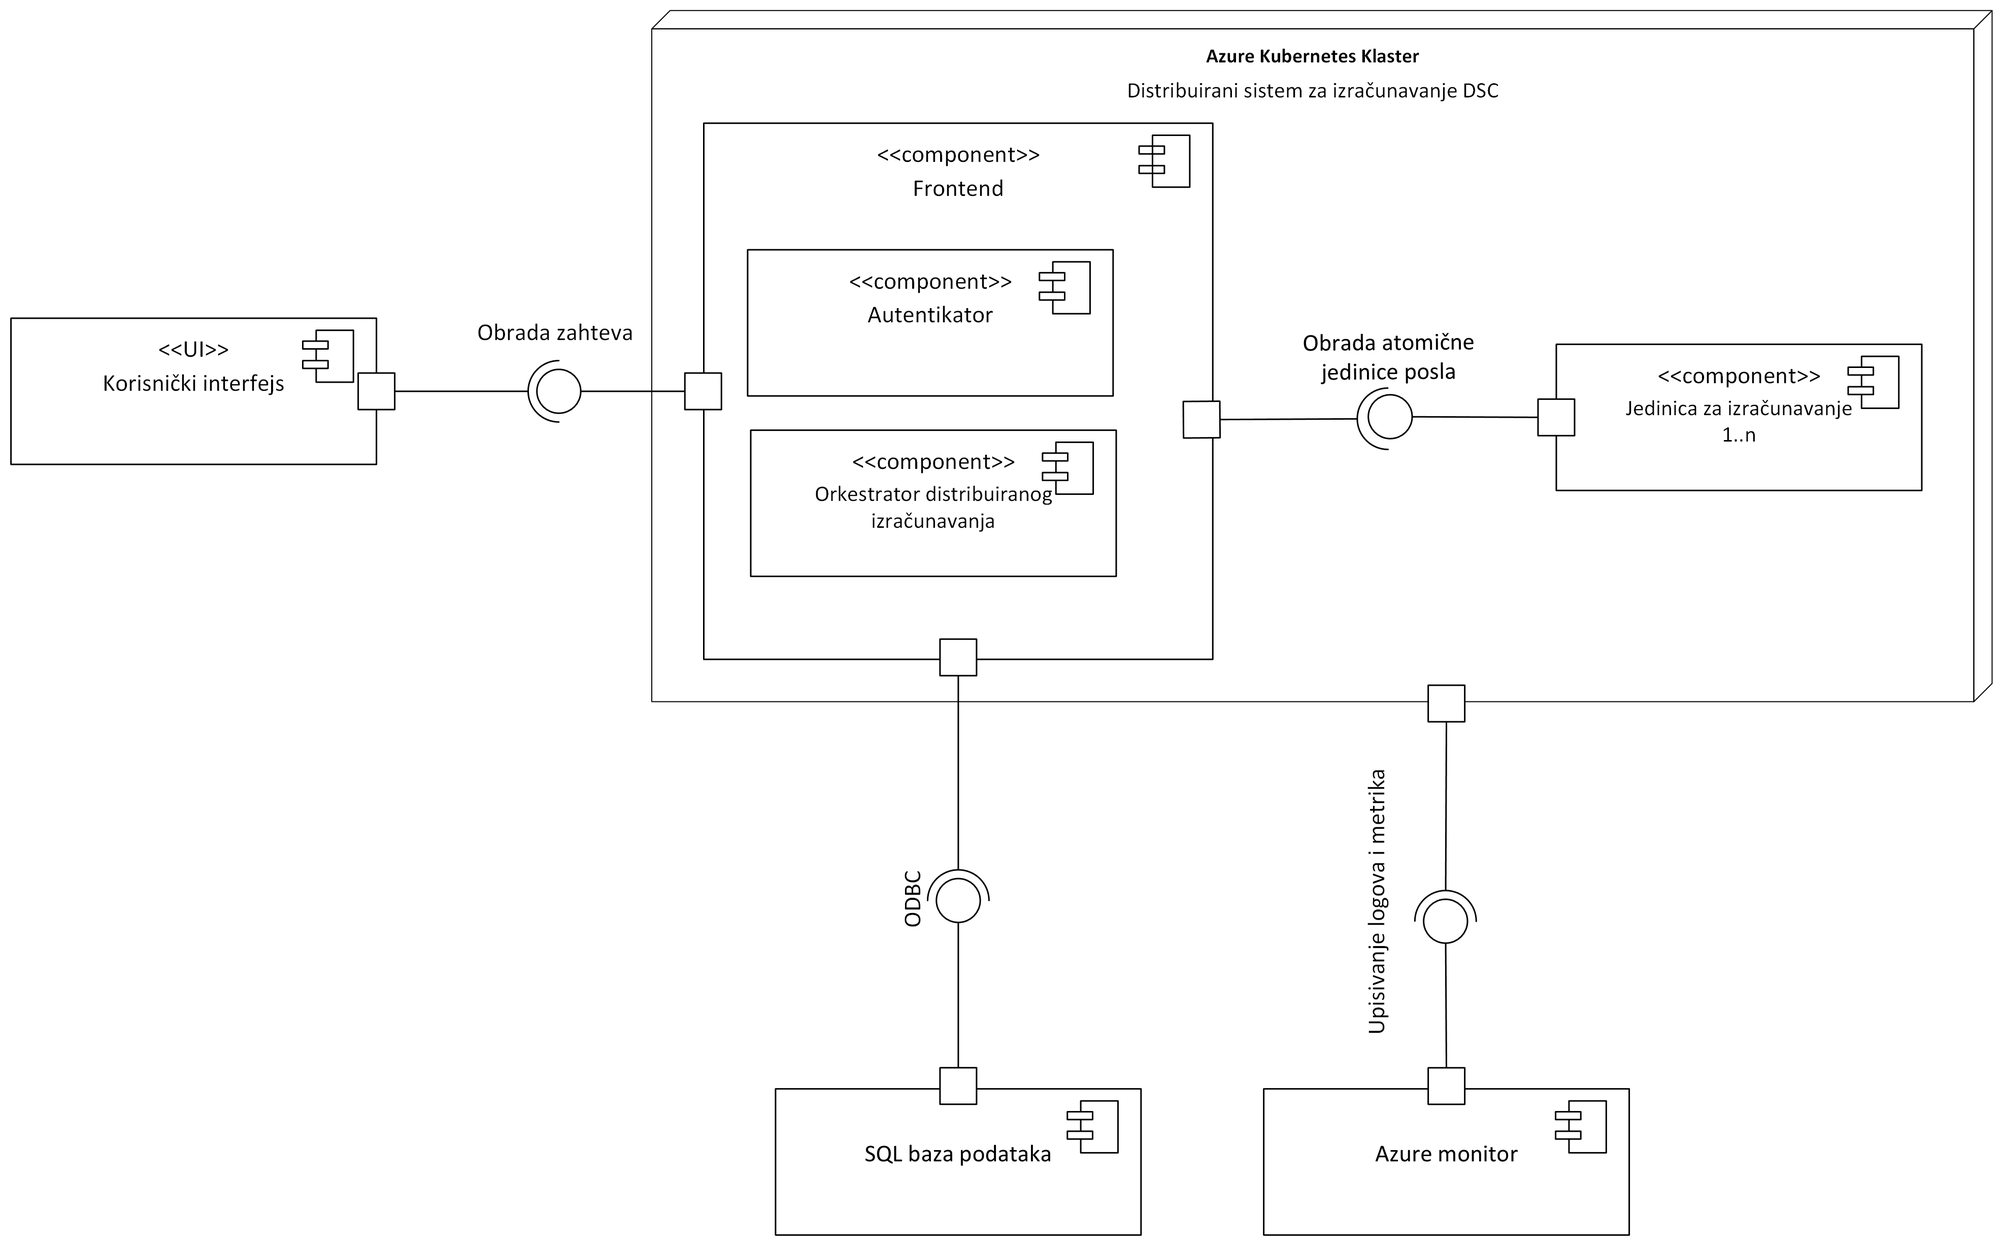
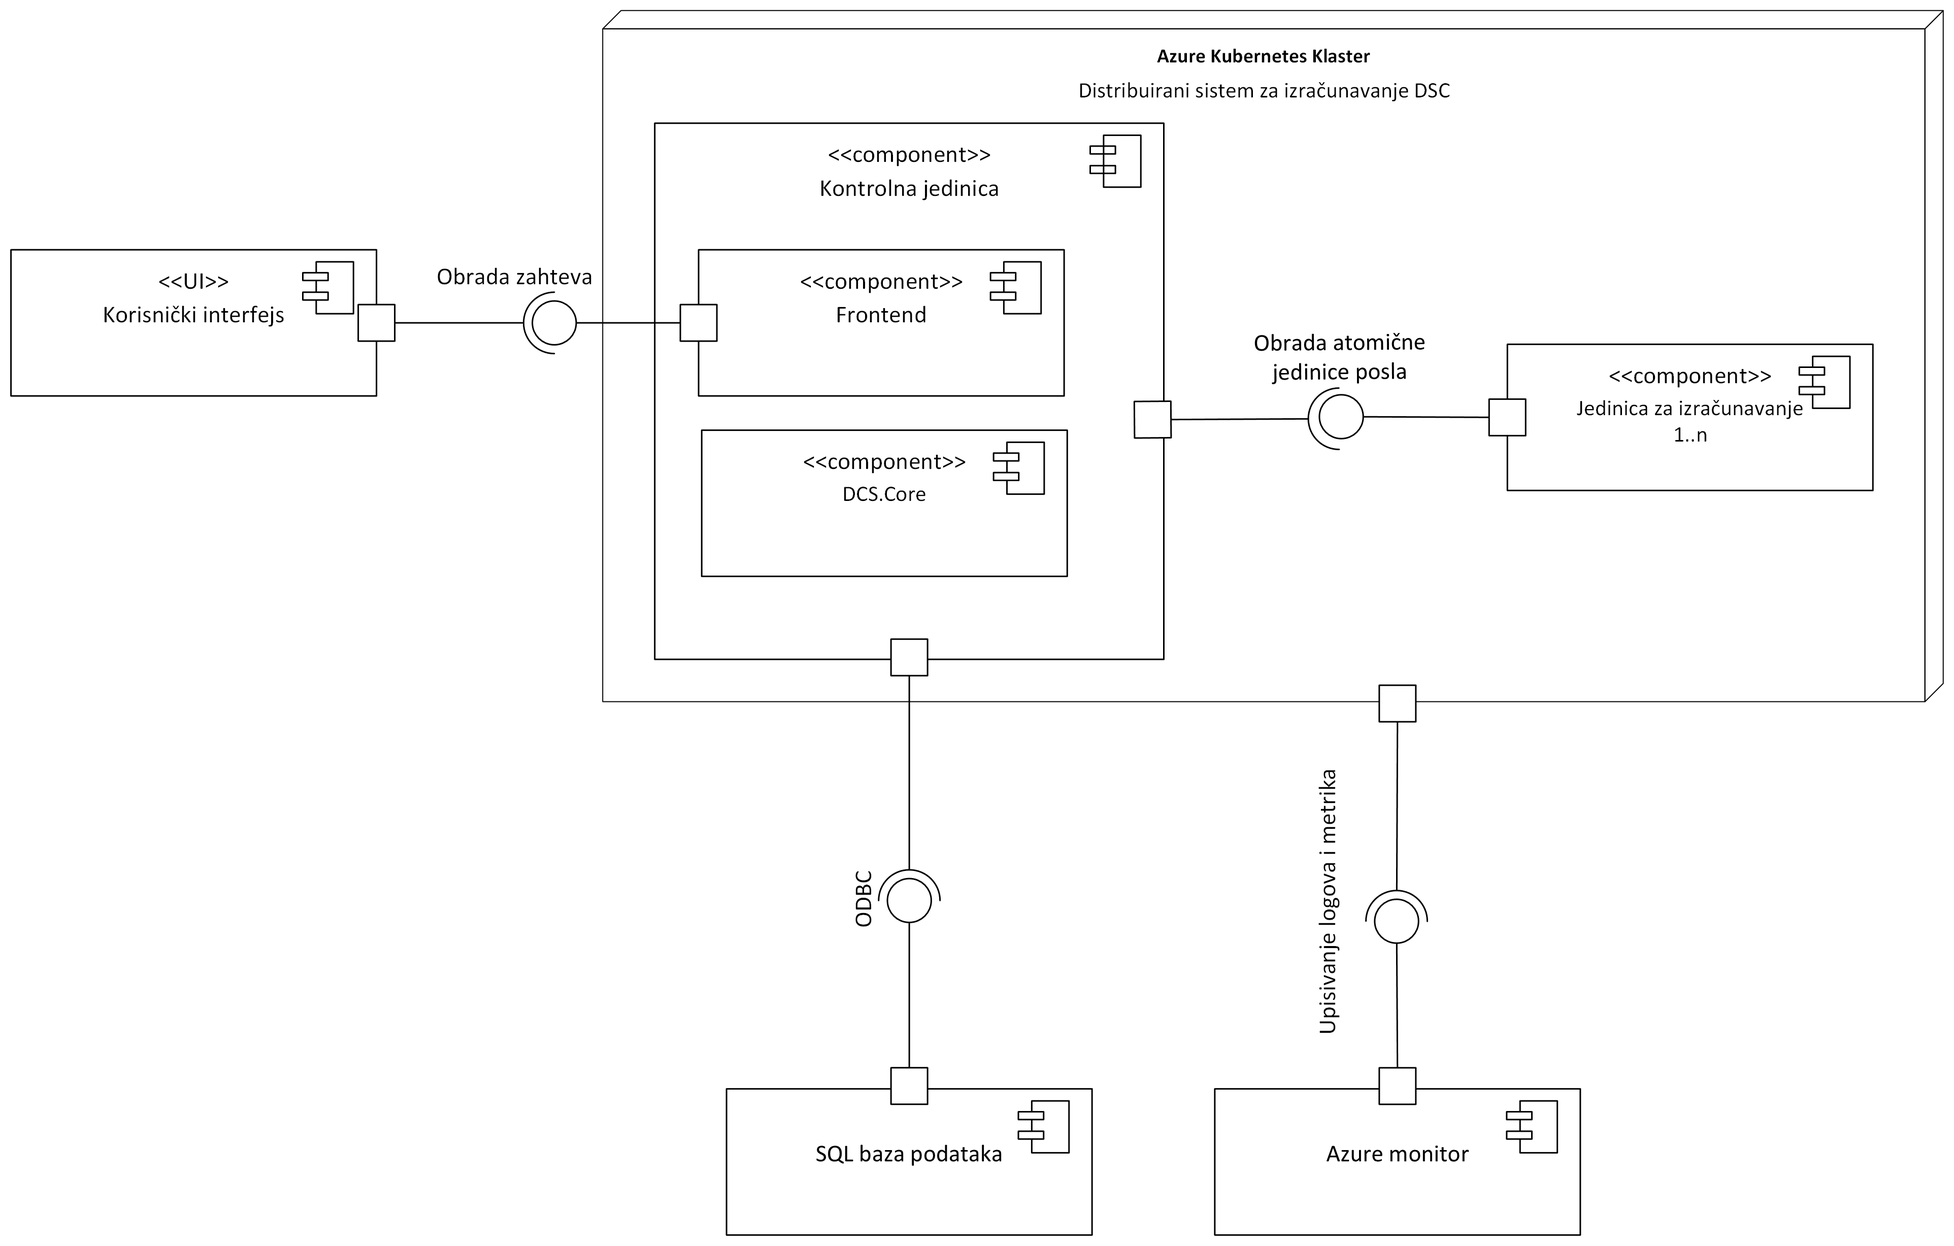
Unapredjen deo rada koji opisuje implementaciju

diff --git a/paper/MasterRad-MilanaKovačević.tex b/paper/MasterRad-MilanaKovačević.tex
@@ -106,7 +106,6 @@ Azure Functions pregled
 
 neko rešenje u AWS?
 
-
 \section{Opis korišćenih tehnologija i alata}
 
 U ovom podpoglavlju biće opisane tehnologije i alati korišćenih prilikom programske realizacije sistema.
@@ -229,11 +228,11 @@ Najrelevantniji resursi korišćeni za pokretanje sistema u na \emph{Azure} plat
 
 \subsubsection{Swagger / OpenAPI}
 
-\emph{OpenAPI} \cite{OpenAPI} je specifikacija \emph{REST API}-a koja ne zavisi od programskog jezika. \emph{Swagger} \cite{Swagger} predstavlja skup alata koji koriste \emph{OpenAPI} specifikaciju.
+\emph{OpenAPI} \cite{OpenAPI} je specifikacija \emph{REST API}-a (eng. \emph{Application Programming Interface}) koja ne zavisi od programskog jezika. \emph{Swagger} \cite{Swagger} predstavlja skup alata koji koriste \emph{OpenAPI} specifikaciju.
 
-Servisi kreirani u okviru sistema imaju otvoreni web \emph{REST API}. Korišćenjem skupa alata \emph{Swagger}, oni su dokumentovani u standardizovanom formatu, u \emph{json} datoteci. Za generisanje ove specifikacije za \emph{.NET Core} aplikacije koristi se alat \emph{Swashbuckle} \cite{Swashbuckle}.
+Korišćenjem skupa alata \emph{Swagger}, moguće je dokumentovati serverski web \emph{REST API} u standardizovanom formatu, u datoteci \emph{json}. Za pravljenje ove specifikacije, koristi se alat \emph{Swashbuckle} \cite{Swashbuckle}.
 
-Sa klijentske strane, koristi se alat \emph{NSwag} \cite{NSwag}. Na osnovu prethodno generisane \emph{json} datoteke, on tokom kompilacije generiše klasu koja sadriži \emph{HTTP} klijenta i potrebnu dokumentaciju. Ovo je praktičan i efikasan način da se automatski generiše kod klijenta pomoću kojeg se šalju zahtevi serveru.
+Za generisanje klijenta u rednom okviru \emph{.NET Core}, koristi se alat \emph{NSwag} \cite{NSwag}. Na osnovu prethodno generisane \emph{json} datoteke, on generiše klasu koja sadriži \emph{HTTP} klijenta i potrebnu dokumentaciju. Ovo je praktičan i efikasan način da se automatski generiše kod klijenta pomoću kojeg se šalju zahtevi serveru.
 
 
 
@@ -472,9 +471,9 @@ Slučajevi upotrebe iz ugla administratora klastera su prikazani na slici \ref{f
 
 Sistem DCS je implementiran po uzoru na arhitekturu klijent-server.
 
-Centralni deo sistema DCS se sastoji od dva tipa aplikacija: Frontenda (skr. FE) i jedinice za izvršavanje (eng. \emph{Compute Node}, skr. CN). 
-U sistemu postoji tačno jedna aplikacija FE, koja je zadužena za dve logički odvojene celine: primanje zahteva od korisnika i orkestriranje izvršavanja prethodno zakazanih poslova.
-Sa druge strane, u zavisnosti od potreba, DCS se sastoji od jedne ili više aplikacija CN koje su zadužene za izvršavanje atomičnih (nedeljivih) poslova. CN prima zahteve za izvršavanje atomičnih poslova od FE.
+Centralni deo sistema DCS se sastoji od dva tipa aplikacija: Kontrolne jedinice (eng. \emph{Control Node}, skr. CtrlN) i jedinice za izračunavanje (eng. \emph{Compute Node}, skr. CmpN). 
+U sistemu postoji tačno jedna aplikacija kontrolne jedinice, koja je zadužena za dve logički odvojene celine: primanje zahteva od korisnika i orkestriranje izvršavanja prethodno zakazanih poslova.
+Sa druge strane, u zavisnosti od potreba, DCS se sastoji od jedne ili više jedinica za izračunavanje koje su zadužene za izvršavanje atomičnih (nedeljivih) poslova. CmpN prima zahteve za izvršavanje atomičnih poslova od CtrlN.
 
 Arhitektura sistema je prikazana na slici \ref{fig:arhitektura}.
 
@@ -485,31 +484,35 @@ Arhitektura sistema je prikazana na slici \ref{fig:arhitektura}.
   \label{fig:arhitektura}
 \end{figure}
 
-Arhutekturalni obrazac korišćen prilikom razvoja sistema je u Prezentacija-Apstrakcija-Kontrola (eng. \emph{Presentation-Abstraction-Control}, skr. PAC). Sistem je hijerarhijski podeljen na agente FE i CN. FE je agent višeg novoa, koji je pozvezan sa CN agentima. Ovakvom arhitekturom se uvodi podela odgovornosti različitih delova servisa.
+Arhutekturalni obrazac korišćen prilikom razvoja sistema je u Prezentacija-Apstrakcija-Kontrola (eng. \emph{Presentation-Abstraction-Control}, skr. PAC). Sistem je hijerarhijski podeljen na agente CtrlN i CmpN. CtrlN je agent višeg novoa, koji je pozvezan sa CmpN agentima. Ovakvom arhitekturom se uvodi podela odgovornosti različitih delova servisa.
 
-PAC je slojevita arhitektura, te svaki od agenata FE i CN ima PAC slojeve. Prvi sloj aplikacija je \emph{prezenter} koji predstavlja REST API (eng. \emph{Application Programming Interface}). Ovaj sloj aplikacije je okrenut ka spolja i definiše interfejs za komunikaciju sa servisom. U slučaju FE je to API preko kog prima korisnikove zahteve, a u slučaju CN je to API preko kog prima zahteve od FE. Drugi sloj aplikacija je \emph{kontroler} koji predstavlja centralni agenta gde je glavnom logika. Treći sloj aplikacija je \emph{apstrakcija} i predstavlja model podataka i interfejs prema bazi podataka. U inicijalnoj verziji servisa, samo FE ima direktnu komunikaciju sa bazom.
+PAC je slojevita arhitektura, te svaki od agenata CtrlN i CmpN ima PAC slojeve. Prvi sloj aplikacija je \emph{prezenter} koji predstavlja REST API. Ovaj sloj aplikacije je okrenut ka spolja i definiše interfejs za komunikaciju sa servisom. U slučaju CtrlN je to API preko kog prima korisnikove zahteve, a u slučaju CmpN je to API preko kog prima on zahteve od CtrlN. Drugi sloj aplikacija je \emph{kontroler} koji predstavlja centralni deo agenta gde je glavna logika. Treći sloj aplikacija je \emph{apstrakcija} i predstavlja model podataka i interfejs prema bazi podataka. 
 
 
 % ------------------------------------------------------------------------------
 \section{Implementacija}
 % ------------------------------------------------------------------------------
 
-Sistem DCS je javno dostupan na servisu GitHub na adresi \href{https://github.com/milana-kovacevic/DistributedComputationSystem}{https://github.com/milana-kovacevic/Distributed}\label{githubdsc}. Za implementaciju je korišćen programski jezik C\#, i radni okvir \emph{.NET Core 6.0}. Korišćeno je razvojno okruženje \emph{Microsoft Visual Studio Community 2022} i operativni sistem \emph{Windows 10}.
+Sistem DCS je javno dostupan na servisu GitHub na adresi \href{https://github.com/milana-kovacevic/DistributedComputationSystem}{https://github.com/milana-kovacevic/DistributedComputationSystem}\label{githubdsc}. Za implementaciju je korišćen programski jezik C\#, i radni okvir \emph{.NET Core 6.0}. Korišćeno je razvojno okruženje \emph{Microsoft Visual Studio Community 2022} i operativni sistem \emph{Windows 10}.
 
-Glavna logika distribuiranog izvršavanja nalazi se u okviru aplikacije Frontend. Jedinice za izvršavanje su jednostavni servisi koji imaju jasan cilj koji podrazumeva izvršavanje atomičnog posla i vraćanje rezultata izvršavanja. U nastavku, razrađuje se implementacija FE komponente (ukoliko nije naglašeno drugačije).
+Glavna logika distribuiranog izvršavanja nalazi se u okviru kontrolne jedinice. Jedinice za izvršavanje su jednostavni servisi koji imaju jasan cilj koji podrazumeva izvršavanje atomičnog posla i vraćanje rezultata izvršavanja. U nastavku, razrađuje se implementacija CtrlN komponente (ukoliko nije naglašeno drugačije).
 
-Detaljnija zaduženja FE komponente su, redom:
+Kontrolna jedinica se sastoji od dve komponente koje se nazivaju: Frontend (skr. FE) i Distribuirani orkestrator (skr. DO). Detaljnije, zaduženja CtrlN su, redom:
 \begin{enumerate}
-\item Autentifikacija klijenta,
-\item Primanje i validacija zahteva,
-\item \label{podela_planiranje}Podela zahteva na potposlove i pravljenje plana izvršavanja,
-\item \label{orkestriranje}Orkestiranje izvršavanja potposlova i agregacija (pod)rezultata,
-\item \label{cuvanje_u_bazi}Čuvanje rezultata u bazi (ili nekom drugom skladištu).
+\item Frontend
+	\begin{enumerate}
+	\item Autentifikacija klijenta,
+	\item Primanje i validacija zahteva,
+	\end{enumerate}
+\item Distribuirani orkestrator
+	\begin{enumerate}
+	\item \label{podela_planiranje}Podela zahteva na potposlove i pravljenje plana izvršavanja,
+	\item \label{orkestriranje}Orkestiranje izvršavanja potposlova i agregacija podrezultata,
+	\item \label{cuvanje_u_bazi}Čuvanje rezultata u bazi ili nekom drugom skladištu.
+	\end{enumerate}
 \end{enumerate}
 
-Kada je FE primio i evidentirao zahtev za izvršavanje posla, on ubacuje posao u red za izvršavanje. U slučaju da je sistem zauzet obradom drugih poslova, novi zahtev će čekati dok sistem ne postane spreman da ga obradi. Posebna nit aplikacije uzima poslove iz reda i šalje ih jednog po jednog na dalju obradu komponenti koja se naziva Distriburiani orkestrator (skr. DO). Za implementaciju reda za čekanje, korišćeno je postojeće rešenje bezbedno pri radu sa nitima \emph{BlockingCollection} \cite{BlockingCollection}.
-
-Moguća stanja kroz koja prolazi posao su prikazana na slici \ref{fig:stanjaposla}.
+Moguća stanja kroz koja prolazi posao su prikazana na slici \ref{fig:stanjaposla} a u nastavku je objašnjen način njegove obrade.
 
 \begin{figure}[!ht]
   \centering
@@ -518,27 +521,27 @@ Moguća stanja kroz koja prolazi posao su prikazana na slici \ref{fig:stanjaposl
   \label{fig:stanjaposla}
 \end{figure}
 
-Navedena zaduženja \ref{podela_planiranje} i \ref{orkestriranje} uključuju glavni deo logike distribuiranog izvršavanja. U slučaju da korisnikov zahtev već sadrži niz atomičnih poslova, podelu početnog zahteva nije potrebno raditi. Plan izvršavanja zavisi od tipa posla, a u slučaju \emph{map-reduce} funkcionalnosti porazumeva da je svaki atomični posao nezavisno obrađuje (funkcijom \emph{map}), a krajnje rešenje se dobija definisanom agregacijom atomičnih rezultata (funkcijom \emph{reduce}). 
+Kada je FE primio i evidentirao zahtev za izvršavanje posla, on ubacuje posao u red za izvršavanje. U slučaju da je sistem zauzet obradom drugih poslova, novi zahtev će čekati dok sistem ne postane spreman da ga obradi. Za implementaciju reda za čekanje, korišćeno je postojeće rešenje bezbedno pri radu sa nitima \emph{BlockingCollection} \cite{BlockingCollection}. Posebna nit aplikacije uzima poslove iz reda i šalje ih jednog po jednog na dalju obradu komponenti DO.
 
-Na osnovu plana izvršavanja, komponenta DO sprovodi dalje izvršavanje posla: šalje atomične poslove preko mreže do izabranih CN na izvršavanje. Zakazivanje atomičnih poslova se dešava asinhrono i ono ne blokira DO da obrađuje naredni posao. Dobijeni rezultati se šalju odvojenoj komponenti koja zna da agregara rezultate na osnovu plana izvršavanja. U zavisnosti od kompleksnosti agregacije, i ona bi mogla da se prosledi CN na izračunavanje.
+Navedena zaduženja \ref{podela_planiranje} i \ref{orkestriranje} uključuju glavni deo logike distribuiranog izvršavanja. Pre nego što se počne sa izvršavanjem, neophodno je podeliti posao na potposlove i definisati njihove zavisnosti. Rezultat ovoga je predstavljen u vidu stabla u kojem listovi predstavljaju početne atomične poslove, unutrašnji čvorovi agregacije podrezultata, a grane prenos međurezultata. Koren predstavlja krajnje rešenje. U slučaju da korisnikov zahtev već sadrži niz atomičnih poslova, podela početnog zahteva je trivijalna. Na osnovu stabla zavisnosti, pravi se plan izvršavanja. Sličan način planiranja koriste baze podataka \cite{SQLServerInternals}, kao i sistemi poput Sparka \cite{Spark} predstavljen u odeljku \ref{sec:postojeca_resenja}. Plan izvršavanja zavisi od tipa posla, a u slučaju \emph{map-reduce} funkcionalnosti podrazumeva se da se svaki atomični posao nezavisno obrađuje (funkcijom \emph{map}), a krajnje rešenje se dobija definisanom agregacijom atomičnih rezultata (funkcijom \emph{reduce}). Na osnovu plana izvršavanja, komponenta DO sprovodi dalje izvršavanje posla: šalje atomične poslove preko mreže do izabranih CmpN na izvršavanje. Zakazivanje i izvršavanje atomičnih poslova se dešava asinhrono i ono ne blokira DO da uzme naredni posao iz reda i započne njegovu obradu. Dobijeni rezultati se šalju odvojenoj komponenti koja zna da agregara rezultate na osnovu plana izvršavanja. U zavisnosti od kompleksnosti agregacije, i ona može da se prosledi CmpN na izračunavanje.
 
-DO dodatno prati uspešnost izvršavanja poslova i u slučaju uspešnog završetka poslova upisuje rezultat u bazu. Ukoliko dođe do greške prilikom izvršavanja posla, posao može da se ponovi ili da se evidentira neispravan krajnji rezultat. Ponovno pokretanje poslova je potrebno kako bi se povećao stepen pouzdanosti tokom izvršavanja poslova, u slučaju da se na primer jedna od aplikacija CN restartuje i to uzrokuje grešku. Ukoliko i nakon toga dođe do greške, posao se završava i kao krajnji rezultat se upisuje greška.
+DO dodatno prati uspešnost izvršavanja poslova i u slučaju uspešnog završetka, upisuje rezultat u bazu. Ukoliko dođe do greške prilikom izvršavanja, posao može da se ponovi ili da se evidentira greška u krajnjem rezultatu. Ponovno pokretanje poslova je potrebno kako bi se povećao stepen pouzdanosti izvršavanja. U distribuiranim sistemima treba imati u vidu da često može doći do problema u komunikaciji među servisima, bilo zbog preopterećenosti mreže ili eventualnih restarta individualnih aplikacija. Ovo može uzrokovati prolaznu grešku, koju je moguće prevazići novim pokušajem. Ukoliko i nakon ponovnog izvršavanja dođe do greške, posao se završava i kao krajnji rezultat se upisuje greška.
 
-Klijent ima mogućnost da otkaže aktivan posao. Ova operacija uključuje i otkazivanje svih njegovih potposlova koji su u procesu izvršavanja ili koji čekaju na izvršavanje, te se ukupno otkazivanje dešava globalno u celom sistemu. Otkazivanje zakazanih poslova nije podržano u inicijalnoj verziji.
-Kada zahtev za otkazivanje stigne do komponente DO, on proverava status posla i status njegovih potposlova. Ukoliko u tom trenutku postoji barem jedan atomični posao koji čeka na izvršavanje ili se izvršava, DO prekida dalje zakazivanje i asinhrono otkazuje poslove koji su u toku izvršavanja. Tada se ažurira status posla i on čeka da se otkažu svi atomični poslovi. Kada sistem globalno otkaže sva izvršavanja atomičnih poslova, posao je otkazan i klijentu se vraća potvrda o upešnosti.
+Klijent ima mogućnost da otkaže aktivan posao. Ova operacija uključuje i otkazivanje svih njegovih potposlova koji su u procesu izvršavanja ili koji čekaju na izvršavanje, te se ukupno otkazivanje dešava globalno u celom sistemu.
+Kada zahtev za otkazivanje stigne do komponente DO, on proverava status posla i status njegovih potposlova. Ukoliko u tom trenutku postoji barem jedan atomični posao koji čeka na izvršavanje ili se izvršava, DO prekida dalje zakazivanje i asinhrono otkazuje poslove koji su u toku izvršavanja. Tada se ažurira status posla i on čeka da se otkažu svi atomični poslovi. Kada sistem globalno otkaže sva izvršavanja, posao je otkazan i klijentu se vraća potvrda o upešnosti.
 
 TODO dijagram klasa DO
 
 \subsection{Baza podataka}
 
-Sistem DSC koristi relacionu bazu podataka za evidentiranje poslova, ažuriranje stanja u kojem se nalazi posao (kako bi korisnik mogao da prati šta se dešava u sistemu), kao i za čuvanje rezultata i međurezultata poslova. 
+Sistem DSC koristi relacionu bazu podataka za evidentiranje poslova. DCS ažurira stanja u kojem se nalazi posao kako bi korisnik mogao da prati šta se dešava u sistemu. Dodatno, baza podataka služi i za čuvanje rezultata i međurezultata poslova.
 
-ER (eng. \emph{Entity-Relation}) dijagram modela posla je prikazanan na slici \ref{fig:erposao}.
+ER (eng. \emph{Entity-Relation}) dijagram modela posla je prikazan na slici \ref{fig:erposao}.
 
 \begin{figure}[!ht]
   \centering
   \includegraphics[width=1.0\textwidth]{./images/uml_er_dijagram_posao.png}
-  \caption{ER dijagram entiteta - Posao}
+  \caption{ER dijagram entiteta u bazi podataka}
   \label{fig:erposao}
 \end{figure}
 
@@ -547,7 +550,7 @@ ER (eng. \emph{Entity-Relation}) dijagram modela posla je prikazanan na slici \r
 
 Za autentifikaciju klijenta je korišćen servis AAD \cite{AAD} opisan u uvodnom poglavlju u odeljku \ref{sub:azureplatform}. Korisniku su dodeljena prava korišćenja servisa time što je njegov identitet član grupe korisnika definisane u okviru servisa AAD.
 
-Proces autentikacije je prikazan na slici \ref{fig:autentifikacija}. Korisnik pre kontaktiranja sistema DSC šalje zahtev servisu AAD kako bi preuzeo token za autentifikaciju. Ovaj token ima rok trajanja (uobičajeno je 60 minuta) i specifičan je za autentifikaciju na DSC sistem. Kada klijent ima token, prosleđuje ga u HEADER delu HTTP zahteva u polju za autentifikaciju. Sistem DCS prima zahtev i pre nego što počne da ga obrađuje, izvrši validaciju AAD tokena. Token sadrži otisak (eng. \emph{thumbprint}) koji garantuje njegovu validnost. Ukoliko je token validan, nastavlja se sa obradom zahteva, a ukoliko nije, korisnikov zahtev se odbija uz odgovarajuću grešku.
+Proces autentikacije je prikazan na slici \ref{fig:autentifikacija}. Korisnik pre kontaktiranja sistema DSC šalje zahtev servisu AAD kako bi preuzeo token za autentifikaciju. Ovaj token ima rok trajanja (uobičajeno je 60 minuta) i specifičan je za autentifikaciju na DSC sistem. Kada klijent ima token, prosleđuje ga u \emph{header} delu HTTP zahteva u polju za autentifikaciju. Sistem DCS prima zahtev i pre nego što počne da ga obrađuje, izvrši validaciju AAD tokena. Token sadrži otisak (eng. \emph{thumbprint}) koji garantuje njegovu validnost. Ukoliko je token ispravan, nastavlja se sa obradom zahteva, a ukoliko nije, korisnikov zahtev se odbija uz odgovarajuću grešku.
 
 Za bezbednu komunikaciju u produkcionom okruženju, forsiran je protokol HTTPS.
 
@@ -780,8 +783,12 @@ Na slici \ref{fig:alertmemory} nalazi primer aktivnog opšteg upozorenja u sluč
 
 TODO par opstih recenica Pravci daljeg razvoja sistema
 
+U inicijalnoj verziji servisa, samo CtrlN ima direktnu komunikaciju sa bazom.
+Otkazivanje zakazanih poslova nije podržano u inicijalnoj verziji.
+
 Prva verzija sistema DSC implementira \emph{map-reduce} funkcionalnost u kojom računa ukupan zbir cifara brojeva niza, gde svaki broj predstavlja jedan ulazni podatak za atomični posao. U naprednoj verziji sistema, plan bi bio predstavljan u vidu stabla u kojem listovi predstavljaju početne atomične poslove, unutrašnji čvorovi agregacije, a grane prenos međurezultata kroz mrežu. Ovakve planove koriste sistemi poput Sparka \cite{Spark} predstavljeni u uvodu \ref{sec:postojeca_resenja}.
 
+Tip posla može i da preusmeri pisanje rezultata na proizvoljnu lokaciju.
 Ukoliko su ulazni podaci ili rezultat veliki, te ih nije praktično čuvati u bazi podataka, DCS je moguće proštiriti kako bi koristio neko drugo skladište za pristup ulaznim podacima i za čuvanje rezultata.
 
 \section{Dalji razvoj sistema}
